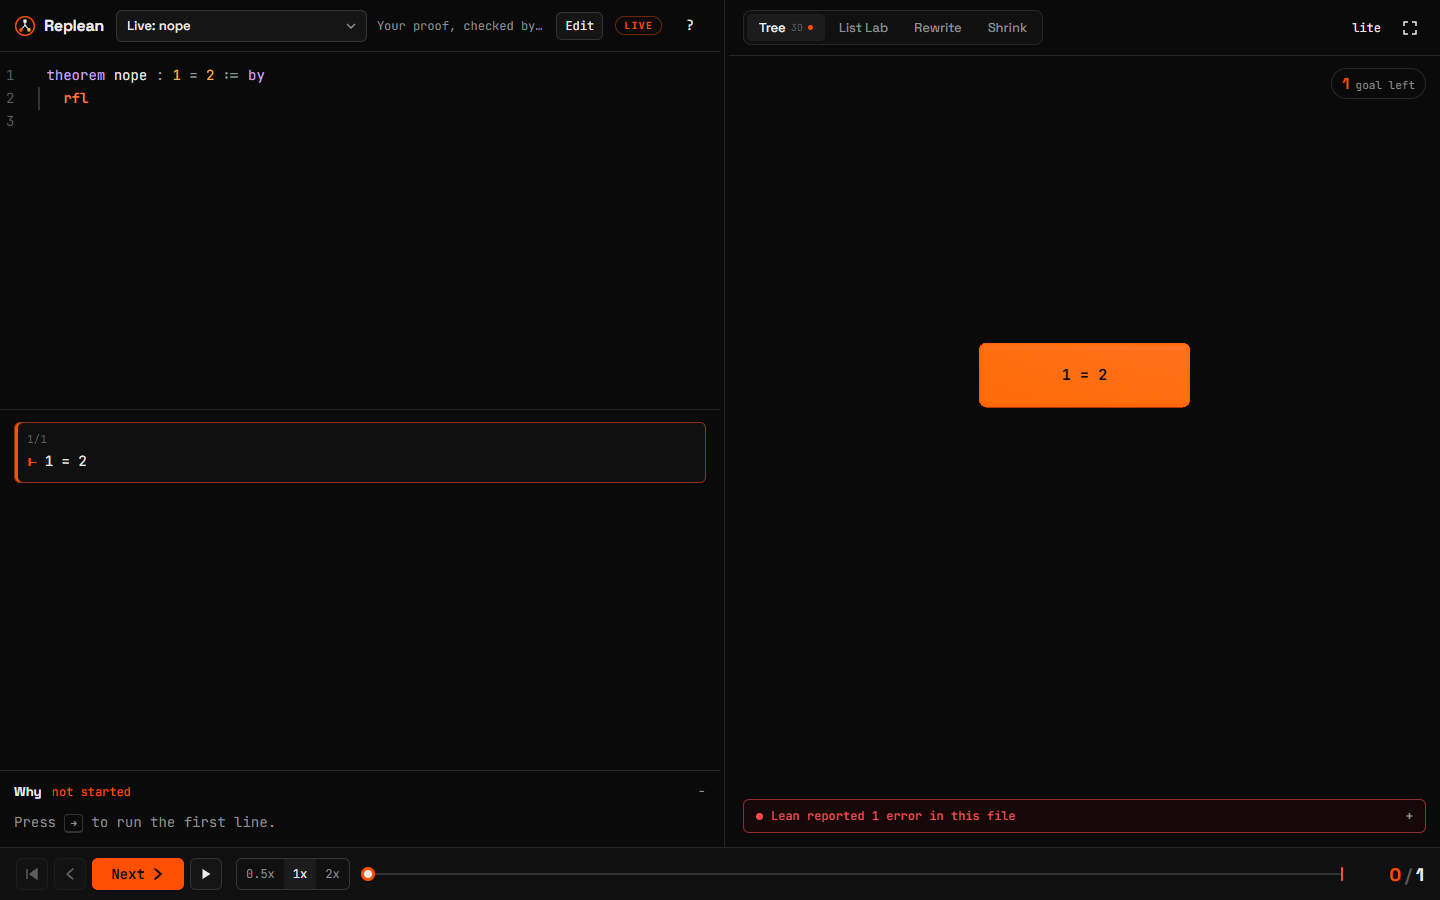
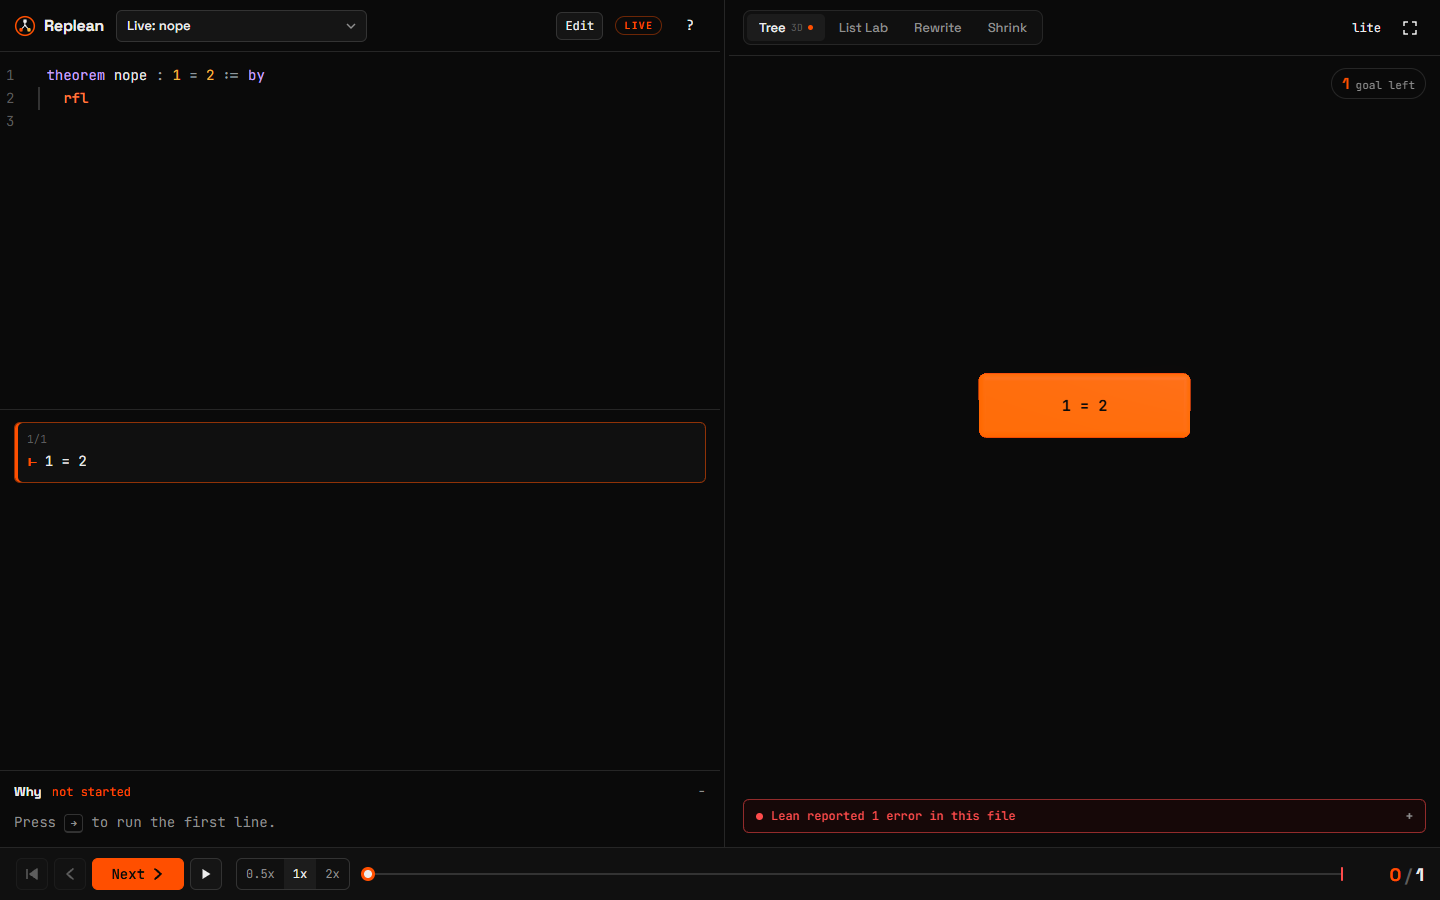
fix: presentation mode layout, drop blurb and watch hint, fit 3D labels
The hidden attribute lost to the panes' display rules, so presentation mode
squeezed both panes into zero-width columns. Hidden now always wins, and
presenting uses a single column. The UI check measures the layout instead
of trusting isHidden. The sample blurb and the watch hint are removed from
the UI, and 3D labels are clipped to their panels.

Changed region(s): [[0.6562, 0.3733, 0.8438, 0.4978]]

diff --git a/scripts/ui-check.ts b/scripts/ui-check.ts
@@ -146,7 +146,16 @@ async function viewsAndTools(page: Page): Promise<void> {
   check('lite button switches back to 3D', (await page.locator('.tab-sub').innerText()) === '3D' && (await page.locator('.tree3d canvas').count()) === 1);
 
   await page.click('button[aria-label="Presentation mode"]');
-  check('Presentation button hides the code side', (await page.locator('.pane.code').isHidden()) && (await page.locator('.app.is-presenting').count()) === 1);
+  await pause(page, 600);
+  const vw = page.viewportSize()!.width;
+  const vizBox = await page.locator('.pane.viz').boundingBox();
+  const codeBox = await page.locator('.pane.code').boundingBox();
+  const tabsBox = await page.locator('.tabs').boundingBox();
+  check('Presentation: the code side takes no space', codeBox === null || codeBox.width === 0, JSON.stringify(codeBox));
+  check('Presentation: the visualization fills the window', !!vizBox && vizBox.x < 2 && vizBox.width > vw * 0.97, JSON.stringify(vizBox));
+  check('Presentation: view tabs are laid out normally', !!tabsBox && tabsBox.width > 250 && tabsBox.x > 5, JSON.stringify(tabsBox));
+  check('Presentation: the tree is drawn', ((await page.locator('.tree3d canvas').boundingBox())?.width ?? 0) > vw * 0.9);
+  await page.screenshot({ path: 'docs/screenshots/presentation.png' });
   await page.click('button[aria-label="Presentation mode"]');
   check('Presentation button restores the code side', await page.locator('.pane.code').isVisible());
 
@@ -217,6 +226,7 @@ async function dialogs(page: Page): Promise<void> {
   const r = (await about.boundingBox())!;
   await page.mouse.click(r.x - 20 > 0 ? r.x - 20 : 5, 5);
   check('Clicking the backdrop closes About', (await page.locator('dialog[open]').count()) === 0);
+  check('No sample blurb or watch hint', (await page.locator('.picker-blurb, .watch').count()) === 0);
   check('No footer line on the page', (await page.locator('.footer').count()) === 0 && !(await page.locator('body').innerText()).includes('Built by'));
 }
 

diff --git a/apps/web/src/ui/app.css b/apps/web/src/ui/app.css
@@ -41,14 +41,6 @@
   cursor: pointer;
   flex: none;
 }
-.picker-blurb {
-  color: var(--muted);
-  font-size: 12px;
-  white-space: nowrap;
-  overflow: hidden;
-  text-overflow: ellipsis;
-  min-width: 0;
-}
 .mode-badge {
   font: 600 10px var(--mono);
   letter-spacing: 0.12em;
@@ -60,21 +52,6 @@
   flex: none;
 }
 
-.watch {
-  margin: 0;
-  padding: 8px 14px;
-  font-size: 12px;
-  color: var(--muted);
-  border-bottom: 1px solid var(--line);
-  background: var(--panel);
-}
-.watch-label {
-  font: 600 10px var(--mono);
-  letter-spacing: 0.12em;
-  text-transform: uppercase;
-  color: var(--brand);
-  margin-right: 6px;
-}
 
 .code-wrap {
   flex: 1 1 45%;
@@ -539,6 +516,10 @@
   white-space: nowrap;
   text-align: center;
   user-select: none;
+  /* Labels scale with the panels (drei distanceFactor), so a fixed width keeps them inside. */
+  max-width: 172px;
+  overflow: hidden;
+  text-overflow: ellipsis;
 }
 .t3-label.s-worked {
   color: #c9a089;
@@ -1164,9 +1145,6 @@
   .picker select {
     flex: 1;
     min-width: 0;
-  }
-  .picker-blurb {
-    display: none;
   }
   .brand {
     margin-right: auto;

diff --git a/apps/web/src/ui/TopBar.tsx b/apps/web/src/ui/TopBar.tsx
@@ -13,7 +13,6 @@ export function TopBar() {
   const setDialog = useStore((s) => s.setDialog);
   const editing = useLive((s) => s.editing);
   const availability = useLive((s) => s.availability);
-  const current = samples.find((s) => s.id === sampleId);
   const isLive = sampleId === LIVE_ID || editing;
   const liveOffered = availability !== 'no' || sampleId === LIVE_ID;
 
@@ -47,11 +46,6 @@ export function TopBar() {
             ))}
             {liveOffered && <option value={LIVE_OPTION}>{liveTitle ? `Live: ${liveTitle}` : '+ Your own proof (live)'}</option>}
           </select>
-          {isLive ? (
-            <span className="picker-blurb">{editing ? 'Paste or upload Lean, then Run.' : 'Your proof, checked by Lean.'}</span>
-          ) : (
-            current && <span className="picker-blurb">{current.blurb}</span>
-          )}
         </label>
       )}
       {sampleId === LIVE_ID && !editing && (

diff --git a/apps/web/src/identity.ts b/apps/web/src/identity.ts
@@ -6,9 +6,9 @@ export const identity = {
   yourName: 'Khushi',
   teamName: 'Bilibuu',
   collegeOrOrg: 'IITR',
-  oneLineStory: 'I was BORN',
+  oneLineStory: 'Proofs are the most beautiful things in mathematics, but you never see them happen, only the final answer; I wanted to watch one think.',
   event: 'Syntax Error 2026',
-  repoUrl: '{{REPO_URL}}',
+  repoUrl: 'https://github.com/khushijain010/FPLaunchpad_REPLEAN/',
 } as const;
 
 /** True while a value is still a `{{PLACEHOLDER}}`, so the UI can hide it gracefully. */

diff --git a/apps/web/src/ui/Split.tsx b/apps/web/src/ui/Split.tsx
@@ -23,7 +23,7 @@ export function Split({ left, right, hideLeft }: { left: ReactNode; right: React
     <div
       className="split"
       ref={box}
-      style={{ gridTemplateColumns: hideLeft ? '0 0 1fr' : `${pct}% 9px 1fr` }}
+      style={{ gridTemplateColumns: hideLeft ? 'minmax(0, 1fr)' : `${pct}% 9px minmax(0, 1fr)` }}
       onPointerMove={(e) => {
         if (!dragging || !box.current) return;
         const r = box.current.getBoundingClientRect();

diff --git a/apps/web/src/App.tsx b/apps/web/src/App.tsx
@@ -42,11 +42,6 @@ function Player() {
   ) : (
     <>
       <TopBar />
-      {trace.meta.watch && (
-        <p className="watch">
-          <span className="watch-label">watch</span> {trace.meta.watch}
-        </p>
-      )}
       <div className="code-wrap">
         <CodePane trace={trace} frame={frame} onLine={jumpToLine} />
       </div>

diff --git a/apps/web/src/ui/theme.css b/apps/web/src/ui/theme.css
@@ -65,6 +65,11 @@ button {
   color: inherit;
 }
 
+/* Components set display: flex/grid; without this the `hidden` attribute would lose to them. */
+[hidden] {
+  display: none !important;
+}
+
 :focus-visible {
   outline: 2px solid var(--brand);
   outline-offset: 2px;

diff --git a/PROGRESS.md b/PROGRESS.md
@@ -96,6 +96,17 @@ Last updated: 2026-10-24 (evening)
   with a short description instead of a 404.
 - Commit history cleaned up before the move to the new repo (user request).
 
+## Presentation mode fix (2026-10-24)
+
+- [x] Presentation mode was broken: `.pane { display: flex }` beat the `hidden` attribute, so the code
+  side stayed in a 0-width column and the visualization landed in another 0-width column. Fixed with a
+  global `[hidden] { display: none !important }` and a one-column grid while presenting.
+- [x] `ui-check` now measures presentation mode (code side takes no space, visualization fills the
+  window, tabs laid out, tree drawn) instead of only asking "is the code pane hidden". 95/95.
+- [x] Removed the sample blurb next to the picker and the "watch" hint above the editor (user: they add
+  nothing). The data stays in the trace files; only the UI no longer shows it.
+- [x] 3D node labels no longer run past their panels (fixed width + ellipsis; scales with the panel).
+
 ## Latest round (user requests)
 
 - [x] **Renamed to Replean** everywhere (UI, docs, packages `@replean/*`, Lean package, Docker/Render

diff --git a/README.md b/README.md
@@ -7,10 +7,9 @@ shows goals splitting, hypotheses arriving, and goals turning gold as they're pr
 
 <!-- TODO(me): optionally swap in a 15-second GIF (see HUMAN_TASKS.md). -->
 
-> TODO(me): two or three sentences, in your own words, on why you built this. What made Lean
-> proofs hard to follow for you, and what you wanted to see instead.
+> I first saw Lean at my friend's laptop and couldn’t follow what the proof was doing between lines. Everything important happens in a goal state you can’t see unless you click on each line. I wanted to step through it like a debugger, but with a picture.
 
-**Try it:** TODO(me): deployed link goes here.
+**Try it:** https://khushijain010.github.io/FPLaunchpad_REPLEAN/
 
 Built by Khushi (team Bilibuu, IITR) for Syntax Error 2026, Functional Programming track.
 

diff --git a/PLAN.md b/PLAN.md
@@ -67,6 +67,7 @@ Goal parents are *not* stored: `buildGoalGraph` derives them from consecutive st
 - **Name: Replean** (user's choice), replacing the working name Lemmascope.
 - **No footer, plain copy:** the user found the playful microcopy from the brief off-putting; UI text
   is now neutral and factual. This overrides the brief's voice section.
+- **No sample blurb or "watch" hint in the UI** (user's call; overrides the brief's hint).
 - **A file Lean rejects still opens in the player** so its errors can be shown in the visualization
   panel; only a file with no proof and no errors stays in the editor with a message.
 
